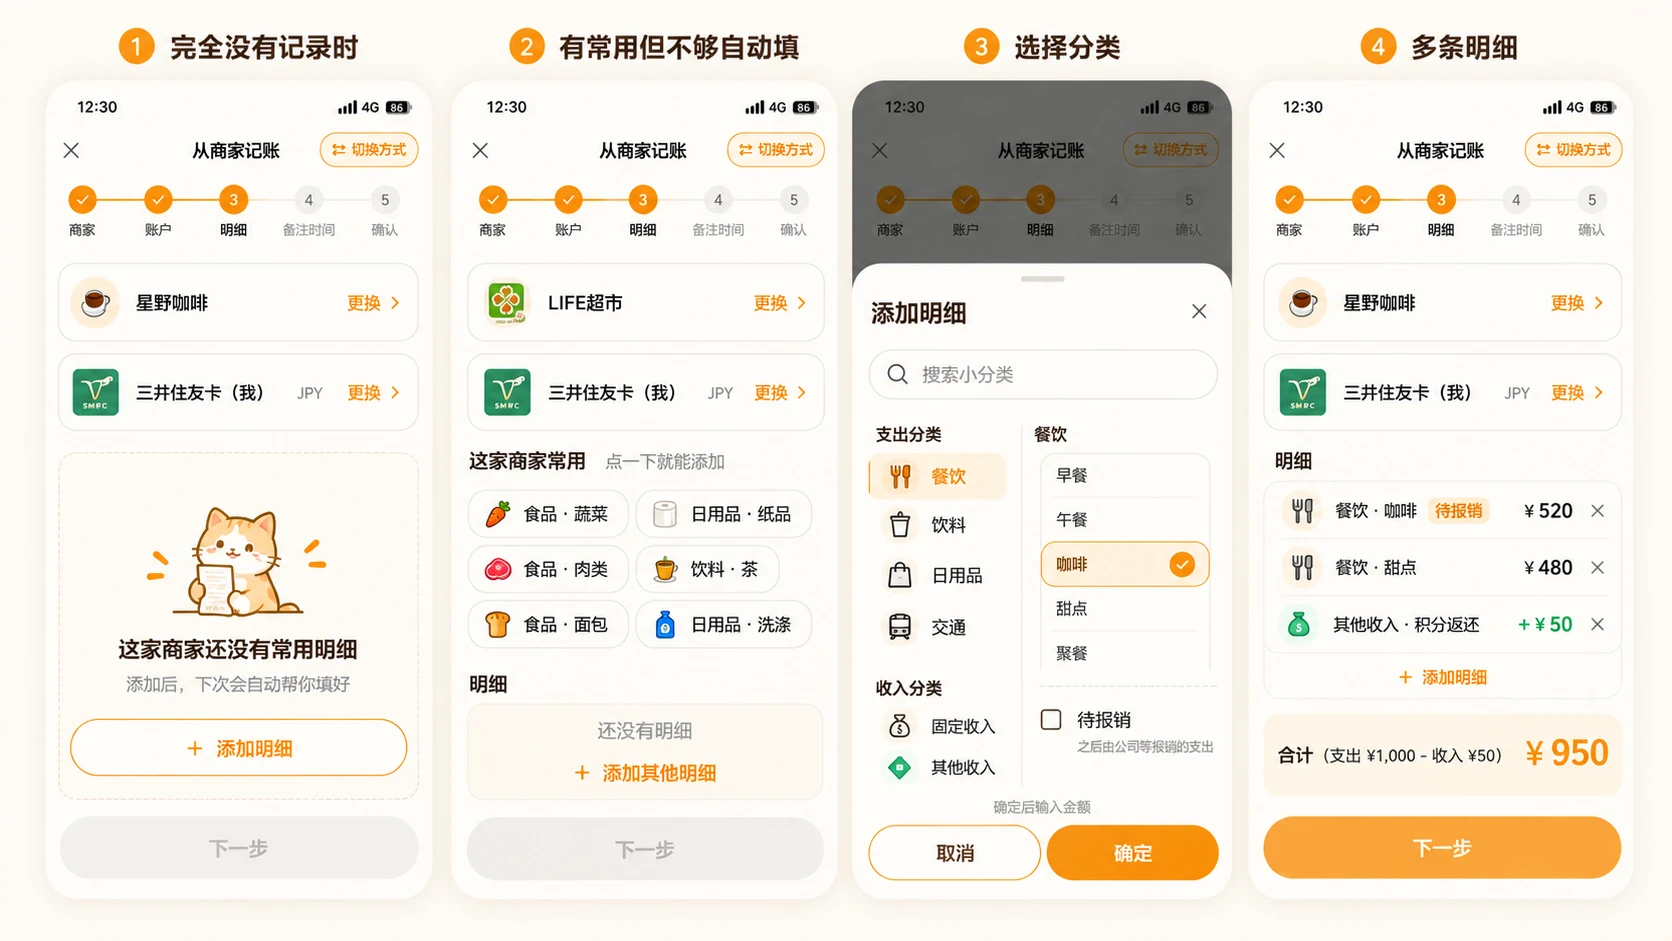
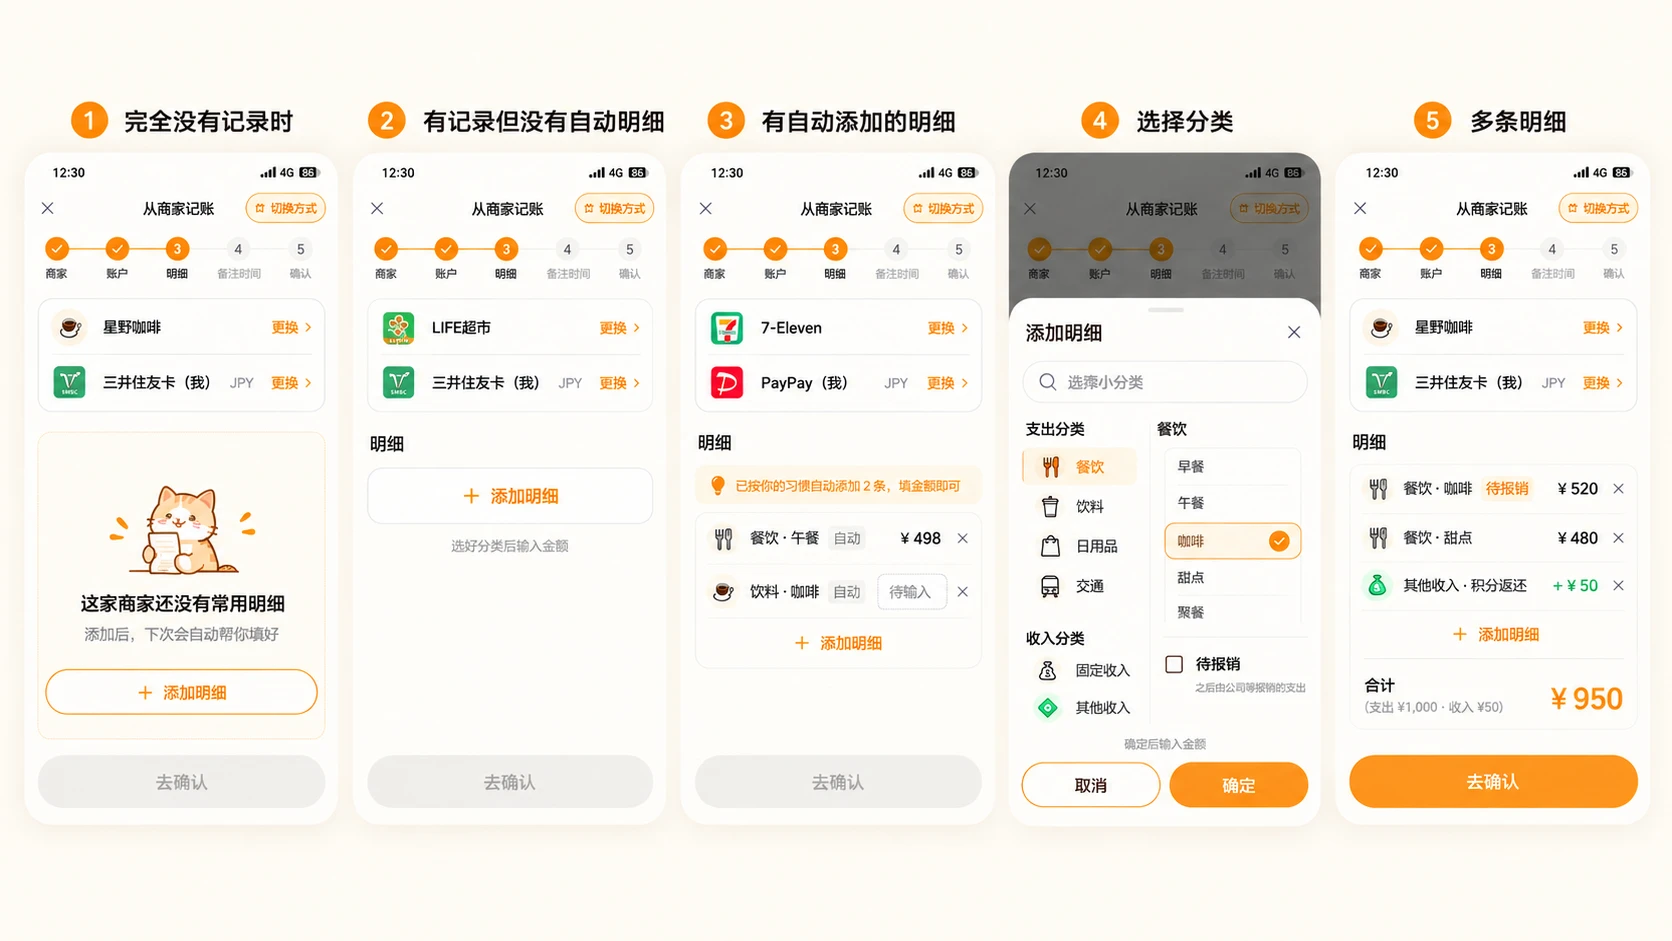
docs: 更新 #943 设计图 4（明细，取消常用胶囊并改为紧凑卡片）
Refs #943

Claude-Session: https://claude.ai/code/session_01KJTtyirRSJ96JiZocoFRX1

diff --git a/docs/design/issue-943-transaction-step-flow/README.md b/docs/design/issue-943-transaction-step-flow/README.md
@@ -2,14 +2,14 @@
 
 本目录存放 [#943](https://github.com/toushobun/kuranote/issues/943) 的定稿设计图。设计图只表达布局和交互，与 Issue 正文的规格冲突时以 Issue 正文为准。
 
-| 文件       | 编号 | 内容                                                                                     |
-| ---------- | ---- | ---------------------------------------------------------------------------------------- |
-| `00A.webp` | 0-A  | 整体流程（前半）：记账方式选择 → 选择商家 → 选择收支账户                                 |
-| `00B.webp` | 0-B  | 快速路线：直接选商家 → 自动填好账户和两条明细、只输金额 → 确认保存                       |
-| `01.webp`  | 1    | 切换记账方式抽屉、还没有商家、还没有收支账户                                             |
-| `02.webp`  | 2    | 选择商家：按分类筛选、搜索不到时（可直接新增商家）、常用商家还不多时                     |
-| `03.webp`  | 3    | 选择收支账户：这家商家还没有记录、从确认页回来修改、换成不同币种的账户                   |
-| `04.webp`  | 4    | 明细：完全没有记录时、有常用但不够自动填（「这家商家常用」胶囊）、选择分类抽屉、多条明细 |
+| 文件       | 编号 | 内容                                                                                                   |
+| ---------- | ---- | ------------------------------------------------------------------------------------------------------ |
+| `00A.webp` | 0-A  | 整体流程（前半）：记账方式选择 → 选择商家 → 选择收支账户                                               |
+| `00B.webp` | 0-B  | 快速路线：直接选商家 → 自动填好账户和两条明细、只输金额 → 确认保存                                     |
+| `01.webp`  | 1    | 切换记账方式抽屉、还没有商家、还没有收支账户                                                           |
+| `02.webp`  | 2    | 选择商家：按分类筛选、搜索不到时（可直接新增商家）、常用商家还不多时                                   |
+| `03.webp`  | 3    | 选择收支账户：这家商家还没有记录、从确认页回来修改、换成不同币种的账户                                 |
+| `04.webp`  | 4    | 明细：完全没有记录时、有记录但没有自动明细、有自动添加的明细、选择分类抽屉、多条明细（已改为紧凑卡片） |
 
 ## 设计图中的约定
 
@@ -17,7 +17,8 @@
 - 快速路线中金额输入实时同步到对应明细；未填完金额时步骤「明细」不显示为已完成（设计图 0-B）。
 - 点「记账」后的第一屏采用方案 b：直接进入商家选择（0-B 画面 ①），点「切换方式」弹出方式选择抽屉（设计图 1 画面 ①）。0-A 画面 ① 的方式选择页不再作为第一屏。
 - 设计图 3 画面 ②、③ 的步骤进度条画错了（第 3 步的圆点写成了「4」且未显示为已完成）。正确表现：从确认页跳回某一步时，其余已完成的步骤都显示对勾，只高亮当前步骤，圆点数字与步骤名一一对应。
-- 新流程的添加明细抽屉不显示「常用快捷」（设计图 4）。
+- 新流程的添加明细抽屉不显示「常用快捷」；明细为空时也使用同一张明细卡片，只显示「＋ 添加明细」一行；合计放在明细卡片最后一行（设计图 4）。
+- 设计图 4 画面 ④ 的搜索框占位文字画成了「选择小分类」，正确为「搜索小分类」（沿用现有文案）。
 
 ## 设计图与最新规格的差异（实现时以本节和 Issue 正文为准）
 
